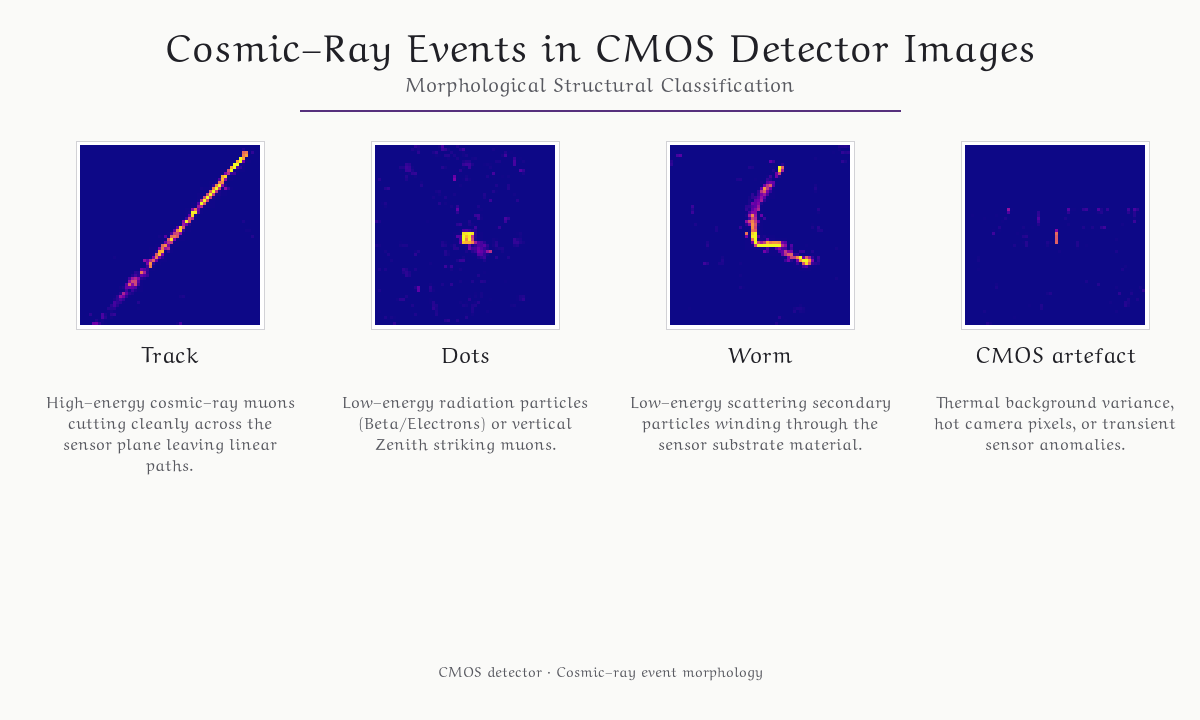
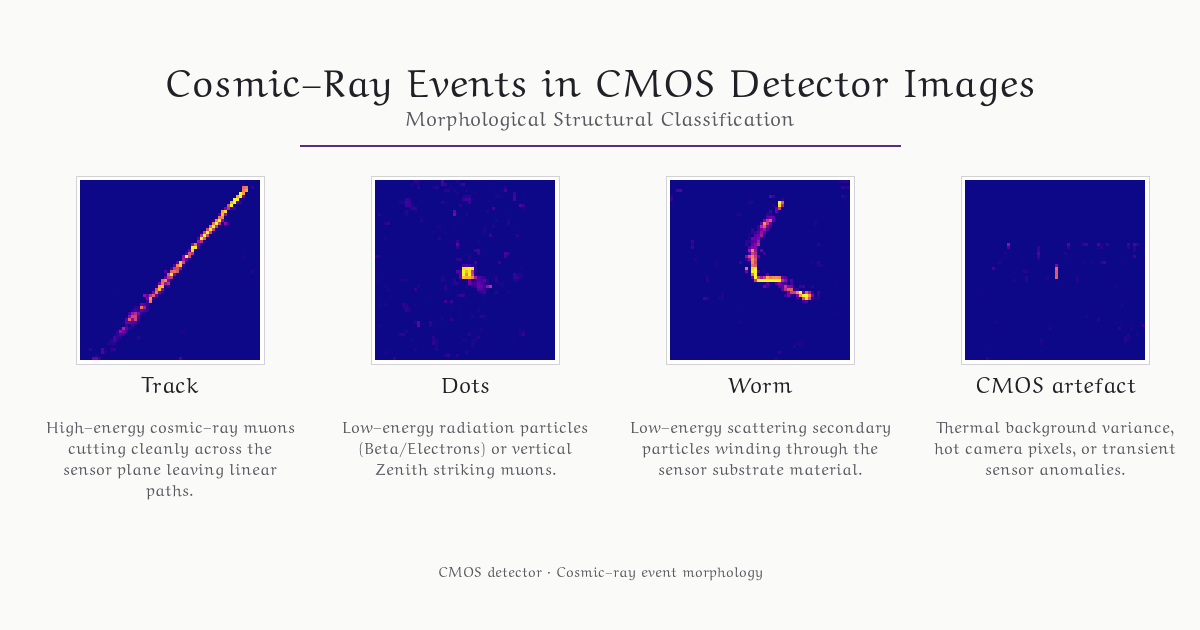
init

diff --git a/README.md b/README.md
@@ -1,0 +1,110 @@
+# CMOS Cosmic Ray & Muon Detector with a Neural Network Classifier
+
+🌐 Live muon observatory link  [https://bkb3.github.io/muon-observatory/](https://bkb3.github.io/muon-observatory/)
+
+Data updated everyday around UTC 00:00.
+
+This implements a lightweight, high-speed Convolutional Neural Network (CNN) pipeline designed to classify cosmic ray and background radiation events captured by a light-sealed camera. Due to JavaScript restrictions on GitHub Pages, some items may appear as placeholders when the site is hosted there, even though they display correctly when run locally. Running locally is easy, just `git clone` this repo, then `uv sync` followed by `.venv/bin/activate` then `python detector_server.py`. Make sure your light sealed camera is UVC compliant.
+
+
+
+By running independent Binary Cross-Entropy (BCE) multi-label thresholds, the pipeline effectively separates legitimate high-energy cosmic ray muons from low-energy radioactive decay electrons and sensor noise without letting dominant classes overpower rare events.
+
+## 📸 Input Data Specifications
+* **Training Source:** [credo-science](https://github.com/credo-science/image-data-set)
+
+* ```
+  --- Dataset Distribution Summary ---
+  Class 'artefacts': 5335 images found
+  Class 'dots': 6567 images found
+  Class 'tracks': 5839 images found
+  Class 'worms': 762 images found
+  ```
+
+* **Dimensions:** 60 × 60 pixels (single-channel grayscale patches).
+* **Format:** Raw input values normalized down to a `[0.0, 1.0]` floating-point range.
+* **Extraction:** Input images are tight, dynamically generated bounding-box crops around active pixel clusters that clear the sensor's baseline thermal noise floor.
+
+## 🧠 Model Architecture (`MuonMiniCNN`)
+See the [Jupyter notebook](CNN-bceloss.ipynb).
+
+The classifier utilizes a compact, custom deep convolutional footprint optimized to run in low-power edge environments (like Raspberry Pi monitoring servers) using ONNX Runtime.
+```
+      Input Image [1, 60, 60]
+                 │
+      ┌──────────┴──────────┐
+      │ Conv2d (3x3, 16ch)  │ ──► BatchNorm ──► ReLU ──► MaxPool (2x2)
+      └──────────┬──────────┘
+                 │  Downscaled to [16, 30, 30]
+      ┌──────────┴──────────┐
+      │ Conv2d (3x3, 32ch)  │ ──► BatchNorm ──► ReLU ──► MaxPool (2x2)
+      └──────────┬──────────┘
+                 │  Downscaled to [32, 15, 15]
+      ┌──────────┴──────────┐
+      │ Conv2d (3x3, 64ch)  │ ──► BatchNorm ──► ReLU
+      └──────────┬──────────┘
+                 │  Preserves 15x15 spatial resolution
+      ┌──────────┴──────────┐
+      │ AdaptiveAvgPool2d   │ ──► Flattens grid into [64] channel features
+      └──────────┬──────────┘
+                 │
+      ┌──────────┴──────────┐
+      │   Dropout (30%)     │ ──► Linear (64 ──► 4 Logits) ──► Sigmoid Output
+      └─────────────────────┘
+```
+
+## 📈 Real-World Performance Metrics
+
+The system was evaluated against a validation dataset containing 3,701 total unique events, achieving an **Overall Multiclass Matthews Correlation Coefficient (MCC) of 0.9273** and an **overall accuracy of 95%**.
+
+![Performance metrics](.figs/metrics_muon_mini_bce.png)
+
+The performance metrics can be understood as:
+
+* **Cosmic Ray Muon Tracks:**
+  * Out of every 100 predictions labeled as `TRACKS` by the system, **91 will be actual, verified cosmic ray muons**, while 9 will be straight radioactive scattering anomalies.
+  * The network captures **98% of all true muon tracks** passing through the webcam sensor matrix.
+* **Ambient Radioactive Background (Dots):**
+  * The system achieves near-perfection on localized sensor impacts. Out of every 100 predictions labeled as `DOTS`, **98 are completely correct**. It detects **99% of all total dots** present in the signal stream.
+* **Rare Background Electrons (Worms):**
+  * Because low-energy electrons are highly rare and easily attenuated by spatial pooling, they are difficult to capture cleanly.
+  * Out of 100 predictions labeled as `WORMS`, **66 will be real, curly electron tracks**. The network safely captures **24% of all total worm events** passing across the drive array, routing the remaining low-signal variants safely into the unverified noise bin.
+
+## 🛠 Dynamic One-vs-Rest Thresholding ($\tau\$)
+
+Standard multi-class systems force predictions to sum to 100%, causing the network to confidently guess a winner even on meaningless black pixels.
+
+To prevent this, this pipeline scores each category completely independently using a Sigmoid layer. There's an optimization sweep across the validation data to locate the absolute best threshold cutoff (\(\tau\)) that maximizes the Matthews Correlation Coefficient for each individual target category.
+
+```python
+OPTIMAL_THRESHOLDS = {
+    'artefacts': 0.49,  # High barrier to keep clear sensor errors locked out
+    'dots'     : 0.64,  # High barrier to prevent bleeding into soft tracks
+    'tracks'   : 0.52,  # Confident baseline to protect valid cosmic ray paths
+    'worms'    : 0.20   # Dropped threshold to rescue faint, winding electron structures
+}
+```
+
+### Conflict Resolution Strategy
+
+When an active particle cluster clears multiple independent threshold gates simultaneously, the system evaluates the **Margin of Victory**:
+
+\[\text{Margin} = \text{Sigmoid Probability} - \tau_{\text{class}}\]
+
+The category that beats its optimized validation threshold by the largest absolute mathematical distance is awarded the final classification designation, preventing weak default assumptions.
+
+## 🔍 Understanding Low Confidence Artifact Logs
+
+You may occasionally see entries in `muon_log.csv` that look like this:
+`2026-09-22 11:36:23 | Identified As: ARTEFACTS | Confidence: 6.53%`
+
+### Why is the confidence score so low?
+
+This project uses independent **Sigmoid channels** rather than a forced Softmax function. Every class is evaluated as an isolated binary question out of 100%. 
+
+When an ambiguous frame arrives (for example, a weak, short track signature scoring 42% for `tracks` but missing its mandatory 52.4% validation threshold hurdle), **it fails to clear any category gates**. 
+
+Because it fails all thresholds, the architecture safely rejects the event and defaults the frame classification to `ARTEFACTS`. The system then outputs the **literal probability of the artifact channel** (6.53%). 
+
+A low percentage value does not mean the system is broken; it mathematically represents an **unclassifiable, near-noise event** that was successfully stopped at the gates by the validation rules.
+
